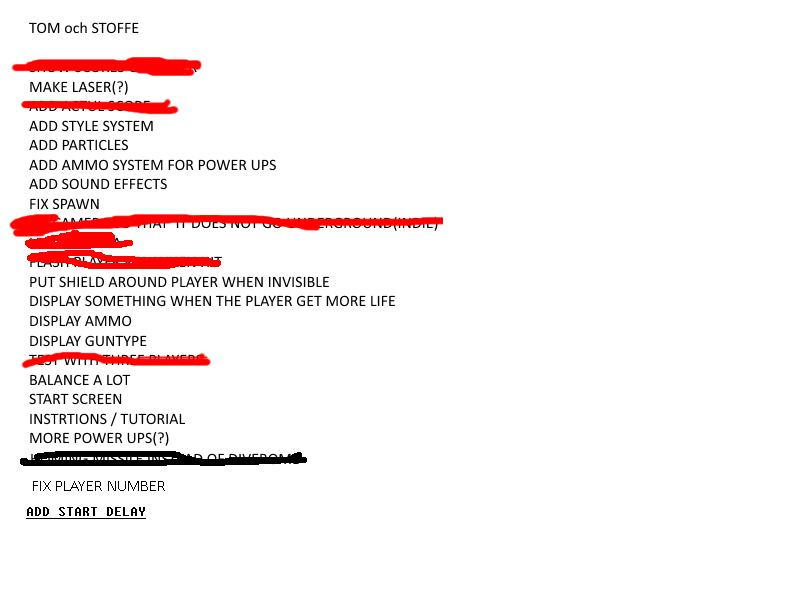
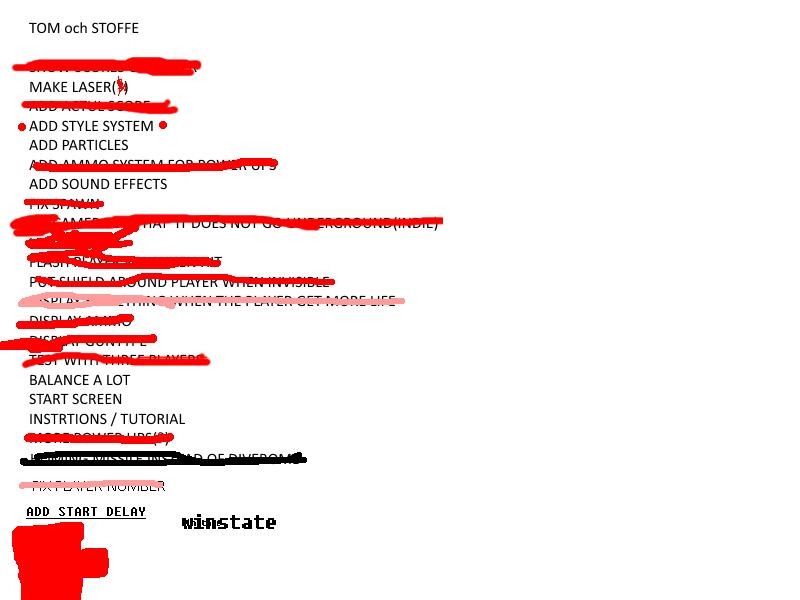
Delay and startscreen

diff --git a/no-more-sweden-2015/no-more-sweden-2015/no-more-sweden-2015/Game1.cs b/no-more-sweden-2015/no-more-sweden-2015/no-more-sweden-2015/Game1.cs
@@ -14,10 +14,17 @@ namespace no_more_sweden_2015
     /// <summary>
     /// This is the main type for your game
     /// </summary>
+    /// 
+
+    enum GameState { StartScreen, Game, Win };
     public class Game1 : Microsoft.Xna.Framework.Game
     {
         GraphicsDeviceManager graphics;
         SpriteBatch spriteBatch;
+
+        static internal GameState gameState = GameState.StartScreen;
+
+        static internal int delay = 128*2;
 
         Gui gui;
         internal static Camera camera = new Camera();
@@ -90,14 +97,26 @@ namespace no_more_sweden_2015
             if (GamePad.GetState(PlayerIndex.One).Buttons.Back == ButtonState.Pressed)
                 this.Exit();
 
-            powerUpSpawner.Update();
+            switch (gameState)
+            {
+                case GameState.StartScreen:
+                    if (GamePad.GetState(PlayerIndex.One).IsButtonDown(Buttons.A)) gameState = GameState.Game;
+                    break;
+                case GameState.Game:
+                    if (delay > 0) delay -= 1;
 
-            GameObjectManager.Update();
-            gui.Update();
-            camera.Update();
+                    if (delay <= 0 || delay >= (128*2)-38)
+                    {
+                        powerUpSpawner.Update();
 
-            gui.Update();
+                        GameObjectManager.Update();
+                        gui.Update();
+                        camera.Update();
 
+                        gui.Update();
+                    }
+                    break;
+            }
             base.Update(gameTime);
         }
 
@@ -118,6 +137,12 @@ namespace no_more_sweden_2015
             spriteBatch.End();
             spriteBatch.Begin();
             gui.Draw(spriteBatch);
+            if (delay > 0) spriteBatch.DrawString(AssetManager.font, "GET READY!", new Vector2(320, 240), Color.White, 0, new Vector2(AssetManager.font.MeasureString("GET READY!").X/2, AssetManager.font.MeasureString("GET READY!").Y/2), 1, SpriteEffects.None, 0);
+            if (gameState == GameState.StartScreen)
+            {
+                spriteBatch.Draw(AssetManager.startScreen, Vector2.Zero, Color.White);
+                spriteBatch.DrawString(AssetManager.font, "PRESS # TO START", new Vector2(225, 400), Color.White);
+            }
             spriteBatch.End();
 
             base.Draw(gameTime);

diff --git a/no-more-sweden-2015/no-more-sweden-2015/no-more-sweden-2015/AssetManager.cs b/no-more-sweden-2015/no-more-sweden-2015/no-more-sweden-2015/AssetManager.cs
@@ -11,7 +11,7 @@ namespace no_more_sweden_2015
     class AssetManager
     {
         public static Texture2D genericProjectile, explosion, playerBody, playerWing, playerFlap,
-            powerUpBox, powerUps, flames, backgroundObject, rocket, ground, dirt, shield,lazer, ammo, healed;
+            powerUpBox, powerUps, flames, backgroundObject, rocket, ground, dirt, shield,lazer, ammo, healed, startScreen;
 
 
         public static SpriteFont font;
@@ -35,6 +35,7 @@ namespace no_more_sweden_2015
             shield = content.Load<Texture2D>("shield");
             ammo = content.Load<Texture2D>("ammo");
             healed = content.Load<Texture2D>("healed");
+            startScreen = content.Load<Texture2D>("startScreen");
 
             font = content.Load<SpriteFont>("bigFont");
         }

diff --git a/no-more-sweden-2015/no-more-sweden-2015/no-more-sweden-2015/Player.cs b/no-more-sweden-2015/no-more-sweden-2015/no-more-sweden-2015/Player.cs
@@ -121,13 +121,13 @@ namespace no_more_sweden_2015
 
                     fireTimer++;
 
-                    if (GamePad.GetState(playerIndex).Buttons.A == ButtonState.Pressed && fireTimer >= fireRate)
+                    if (GamePad.GetState(playerIndex).Buttons.A == ButtonState.Pressed && fireTimer >= fireRate && Game1.delay <= 0)
                     {
                         Shoot();
                         fireTimer = 0;
                     }
 
-                    if (GamePad.GetState(playerIndex).Buttons.B == ButtonState.Pressed) currentState = State.dying;
+                    //if (GamePad.GetState(playerIndex).Buttons.B == ButtonState.Pressed) currentState = State.dying;
 
                     Color = new Color(currentColor.R + cR * (30 - Health), cG * Health, cB * Health);
 
